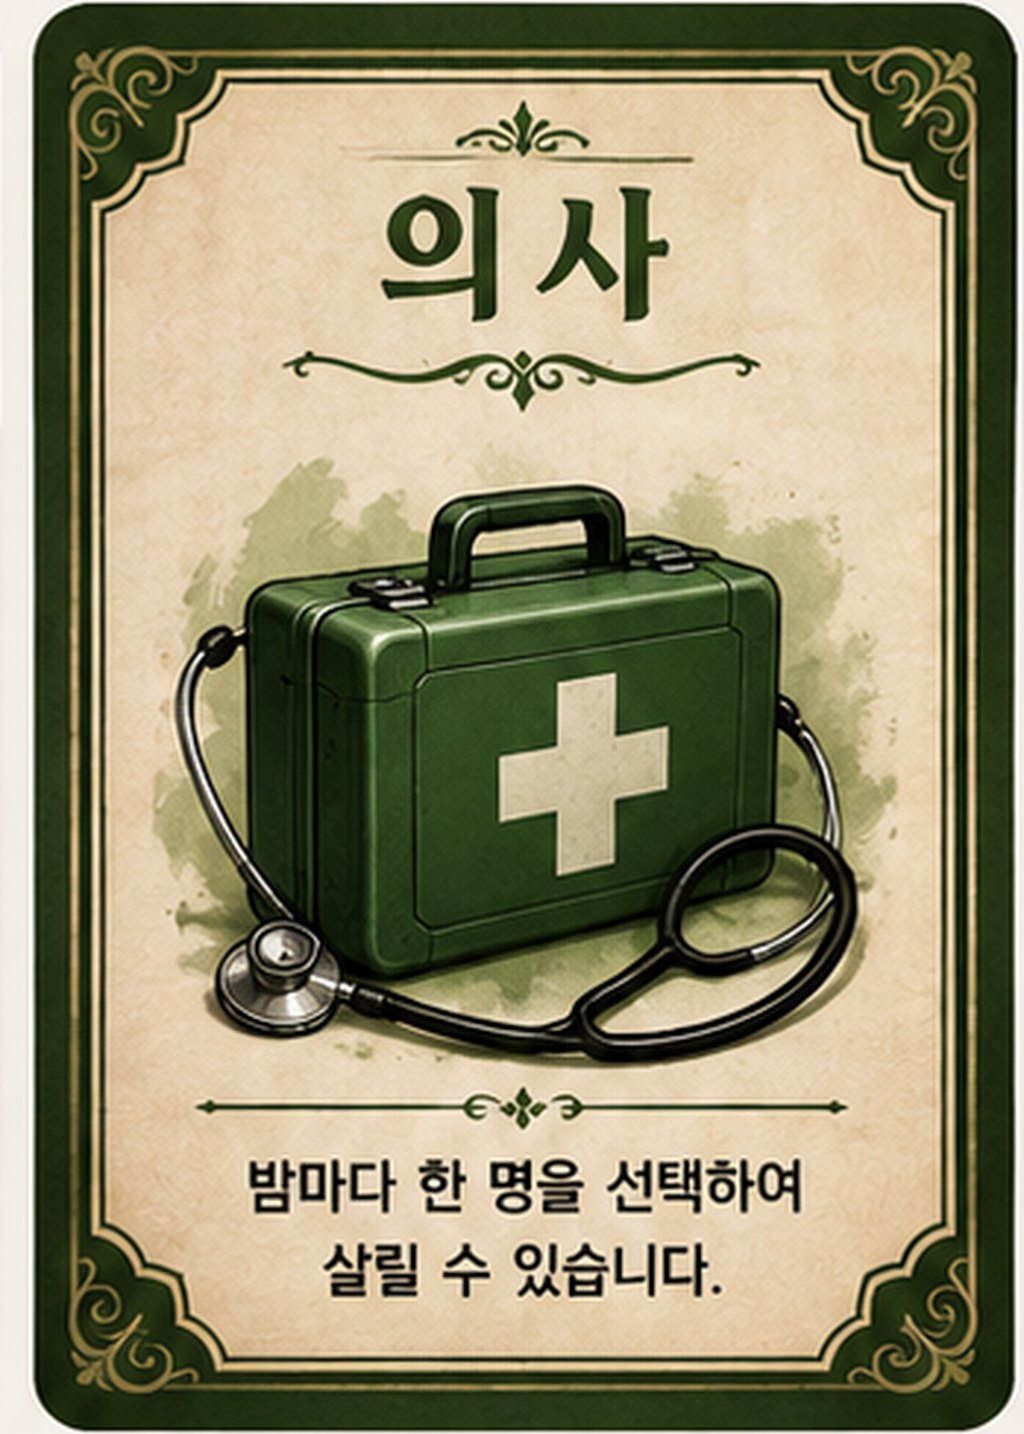
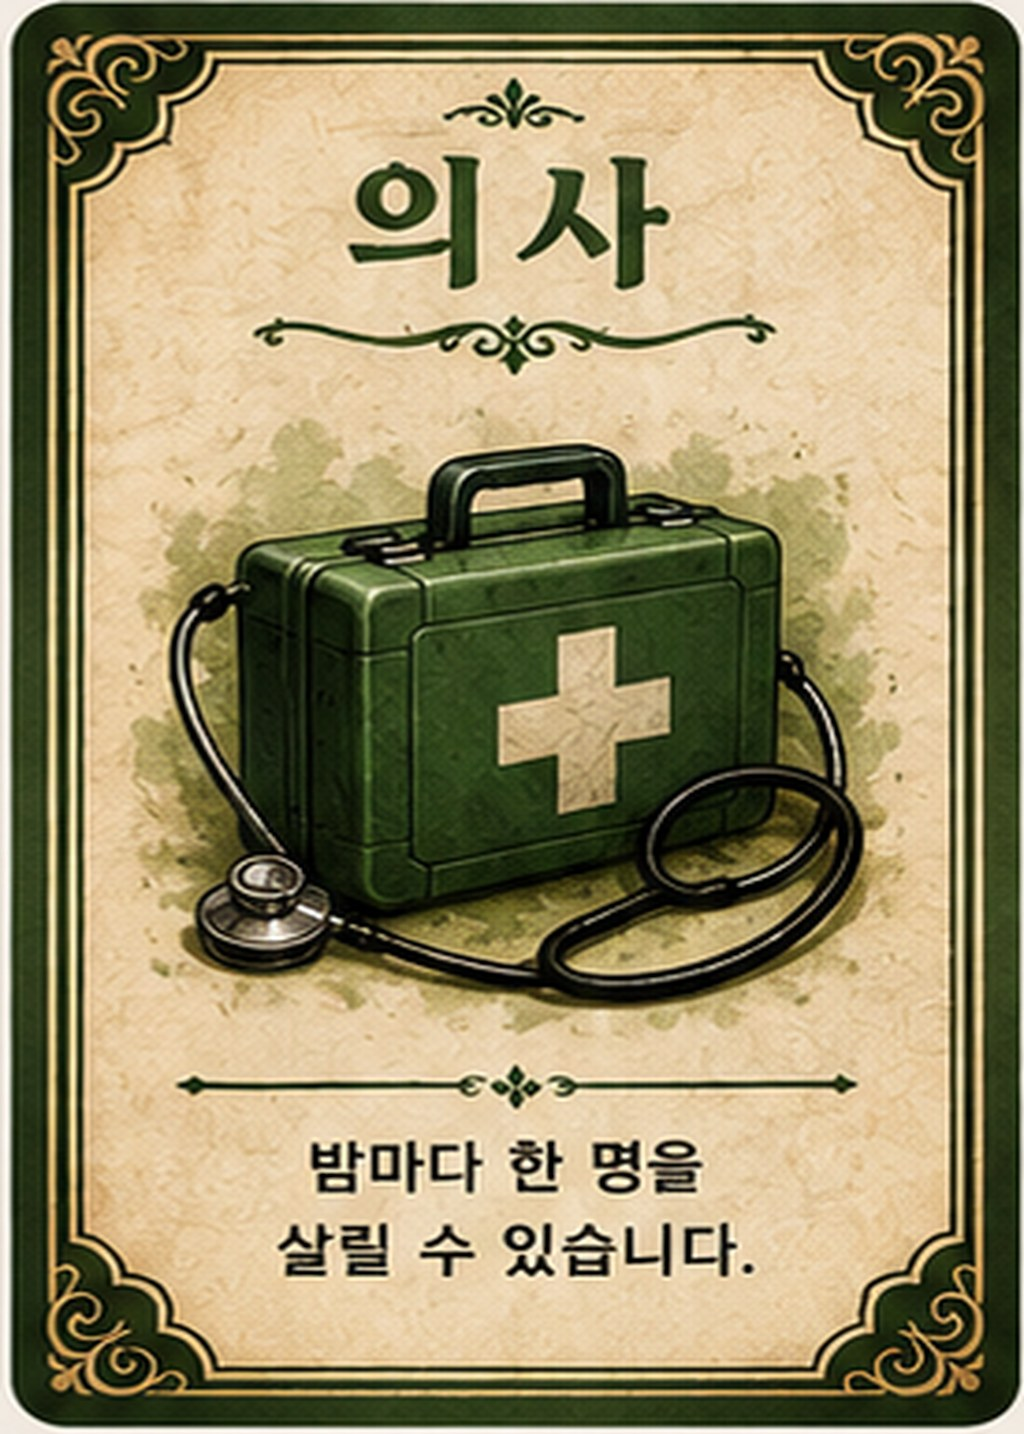
마피아 — 역할 카드 11장 전부 교체 (글자 포함본)
새로 받은 시트를 4×3 격자에서 잘라 11장 모두 넣음
- 마피아 · 의사 · 경찰 · 군인 · 스파이 · 광대 · 시민 · 도굴꾼 · 기자 · 성직자 · 뒷면
- 1024×1434 (5:7), JPEG q88, 장당 210~270KB
- 카드에 역할명과 설명이 인쇄돼 있어, 코드에서 얹던 캡션 오버레이는 제거
  (같은 문구가 두 번 보이던 문제 해소)
- 뒷면으로 대체하던 임시 처리 제거 — 이제 전 역할이 제 카드로 나온다

diff --git a/songsan/index.html b/songsan/index.html
@@ -599,12 +599,6 @@
   .mf-bar .tm.warn{background:#c0392b;color:#fff;animation:mfpulse .7s infinite}
   @keyframes mfpulse{50%{opacity:.55}}
 
-  /* 카드 위 이름·설명 캡션 */
-  .mf-card{position:relative}
-  .mf-cap{position:absolute;left:0;right:0;bottom:0;padding:10px 12px 12px;text-align:center;
-    background:linear-gradient(180deg,rgba(20,12,4,0),rgba(20,12,4,.88) 40%)}
-  .mf-cap b{display:block;font-family:'Jua',sans-serif;font-size:19px;color:#ffe9b0;letter-spacing:1px}
-  .mf-cap span{display:block;font-size:11.5px;color:#f0e2c4;line-height:1.5;margin-top:3px;font-weight:600}
   .mf-card.big{width:min(74vw,300px);aspect-ratio:5/7;border-radius:14px;overflow:hidden;margin:0 auto}
   .mf-card.big img{width:100%;height:100%;object-fit:cover}
   .mf-cardview .in{text-align:center;max-width:340px}
@@ -1566,7 +1560,7 @@ const MF_ROLES = {
 };
 const ROLE_KEYS   = ['mafia','doctor','police','soldier','spy','clown','robber','reporter','priest'];
 const NIGHT_ACTORS = ROLE_KEYS.filter(k => MF_ROLES[k].act);
-const HAS_CARD = ['mafia','doctor','police','soldier','spy','clown'];  // 새 카드 받으면 여기에 추가
+const HAS_CARD = ROLE_KEYS.concat('citizen');   // 11장 전부 있음
 const cardSrc = r => `assets/mafia/card-${HAS_CARD.includes(r) ? MF_ROLES[r].img : 'back'}.jpg`;
 const ROOM = 'main';
 
@@ -1780,8 +1774,7 @@ function renderPlayer(){
     const flip = () => {
       const el = $('#mf-flip'); el.classList.add('flip');
       setTimeout(() => {
-        el.innerHTML = `<img src="${cardSrc(me.role)}" alt="">` +
-          `<div class="mf-cap"><b>${MF_ROLES[me.role].n}</b><span>${esc(MF_ROLES[me.role].d)}</span></div>`;
+        el.innerHTML = `<img src="${cardSrc(me.role)}" alt="${MF_ROLES[me.role].n}">`;
         el.classList.remove('flip');
         const o = $('#mf-open'); o.textContent = '확인했어요'; o.onclick = () => saveMe({ seen_card: true });
       }, 260);
@@ -1845,8 +1838,7 @@ function showCard(role){
   const R = MF_ROLES[role] || MF_ROLES.citizen;
   const d = document.createElement('div');
   d.className = 'mf-cardview';
-  d.innerHTML = `<div class="in"><div class="mf-card big"><img src="${cardSrc(role)}" alt="">
-    <div class="mf-cap"><b>${R.n}</b><span>${esc(R.d)}</span></div></div>
+  d.innerHTML = `<div class="in"><div class="mf-card big"><img src="${cardSrc(role)}" alt="${R.n}"></div>
     <button class="ghost-btn" style="margin-top:14px">닫기</button></div>`;
   d.addEventListener('click', () => { d.remove(); mfCardOpen = false; });
   document.body.appendChild(d);
